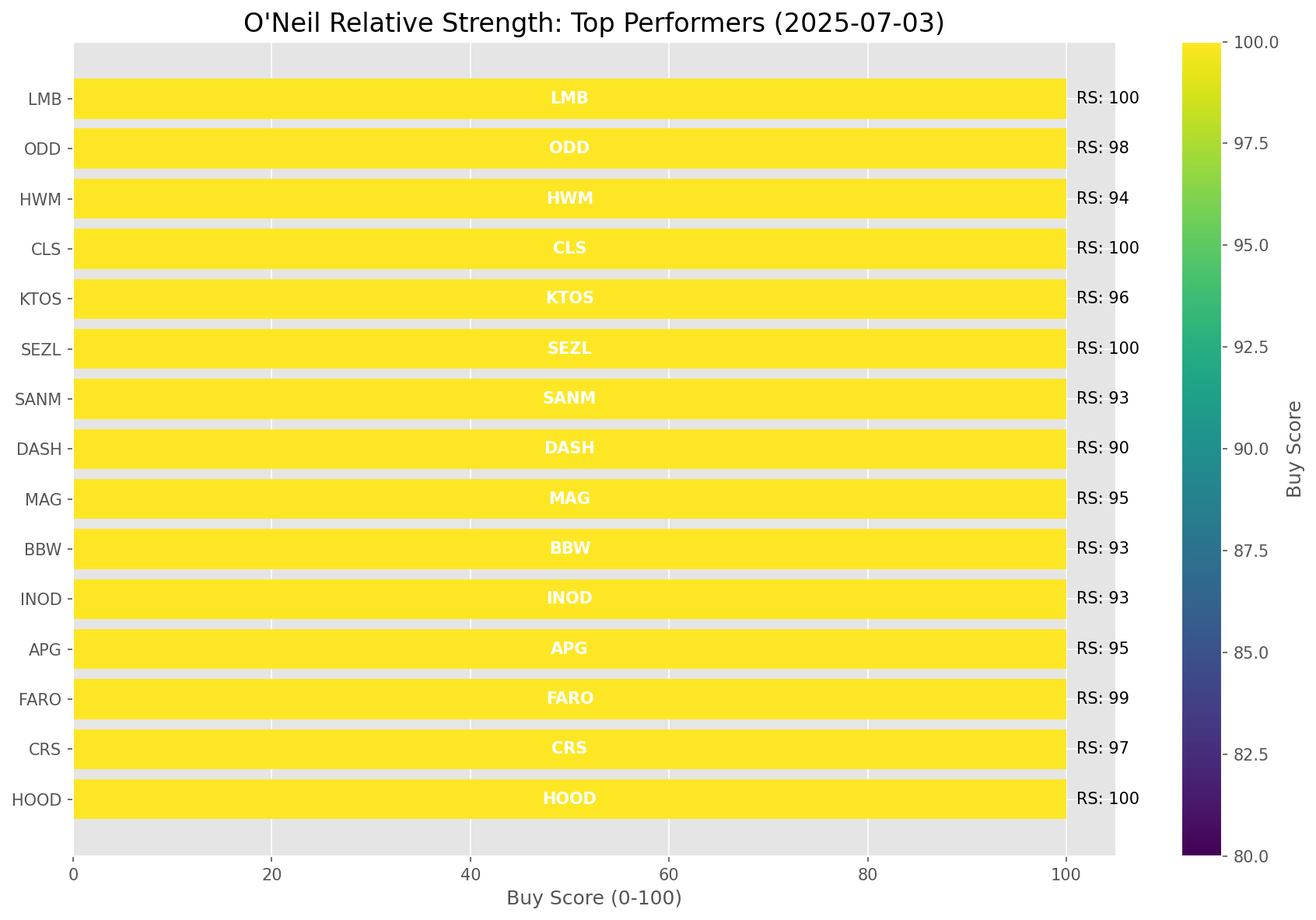
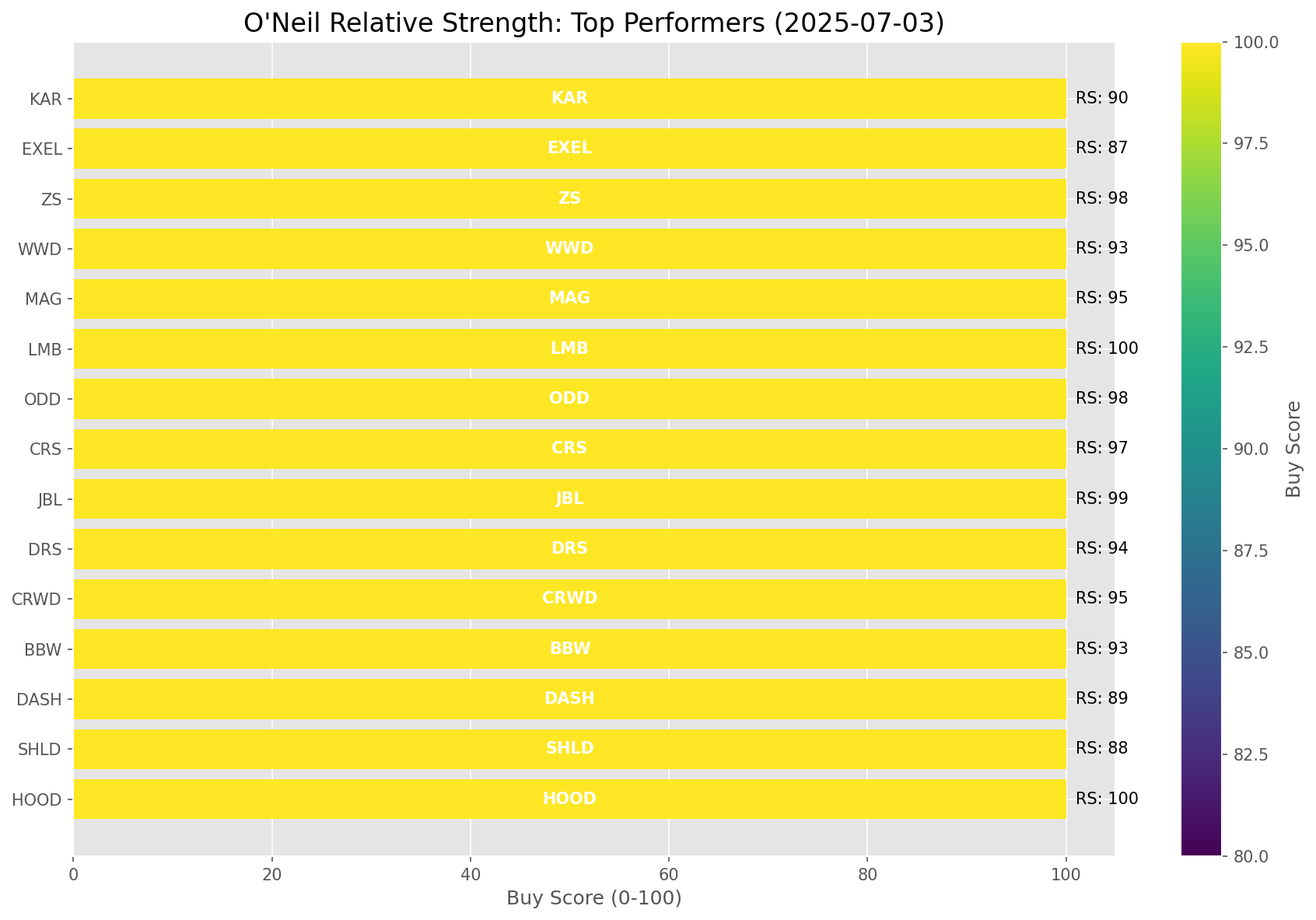
Add market report for 2025-07-03

diff --git a/oneil_relative_strength_report_2025-07-03.md b/oneil_relative_strength_report_2025-07-03.md
@@ -13,7 +13,7 @@
 | **Historical Mean** | 9.38 |
 | **Standard Deviation** | 0.48 |
 | **Z-Score (StdDev from Mean)** | 1.70 |
-| **Total Market Cap** | $308.14 trillion |
+| **Total Market Cap** | $308.03 trillion |
 | **GDP** | $29.96 trillion |
 
 ## **Market Insights**
@@ -49,41 +49,41 @@ Based on William O'Neil's Relative Strength Methodology
 
 | ETF | Strength | RS Rating | Performance | Above Key MAs | Trend | Sector |
 |-----|----------|-----------|-------------|--------------|-------|--------|
-| [ARKW](https://www.tradingview.com/chart/?symbol=ARKW) | 98.5 | 97.0 | 48.88% | 10d ✓, 50d ✓, 200d ✓ | ↗ | Next Generation Internet |
-| [BLOK](https://www.tradingview.com/chart/?symbol=BLOK) | 98.5 | 97.0 | 48.84% | 10d ✓, 50d ✓, 200d ✓ | ↗ | Blockchain & Cryptocurrency |
+| [BLOK](https://www.tradingview.com/chart/?symbol=BLOK) | 98.5 | 97.0 | 48.82% | 10d ✓, 50d ✓, 200d ✓ | ↗ | Blockchain & Cryptocurrency |
+| [ARKW](https://www.tradingview.com/chart/?symbol=ARKW) | 98.5 | 97.0 | 49.06% | 10d ✓, 50d ✓, 200d ✓ | ↗ | Next Generation Internet |
 | [ARKF](https://www.tradingview.com/chart/?symbol=ARKF) | 98.0 | 96.0 | 44.72% | 10d ✓, 50d ✓, 200d ✓ | ↗ | Fintech Innovation |
-| [ARKK](https://www.tradingview.com/chart/?symbol=ARKK) | 98.0 | 96.0 | 44.77% | 10d ✓, 50d ✓, 200d ✓ | ↗ | Innovation |
-| [XLK](https://www.tradingview.com/chart/?symbol=XLK) | 93.0 | 86.0 | 22.85% | 10d ✓, 50d ✓, 200d ✓ | ↗ | Technology |
-| [AIQ](https://www.tradingview.com/chart/?symbol=AIQ) | 91.0 | 82.0 | 19.07% | 10d ✓, 50d ✓, 200d ✓ | ↗ | Artificial Intelligence & Technology |
-| [CIBR](https://www.tradingview.com/chart/?symbol=CIBR) | 90.0 | 80.0 | 17.96% | 10d ✓, 50d ✓, 200d ✓ | ↗ | Cybersecurity |
-| [URA](https://www.tradingview.com/chart/?symbol=URA) | 89.6 | 99.0 | 63.01% | 10d ✗, 50d ✓, 200d ✓ | ↗ | Uranium |
-| [PAVE](https://www.tradingview.com/chart/?symbol=PAVE) | 88.5 | 77.0 | 15.96% | 10d ✓, 50d ✓, 200d ✓ | ↗ | Infrastructure |
-| [JETS](https://www.tradingview.com/chart/?symbol=JETS) | 87.5 | 75.0 | 14.97% | 10d ✓, 50d ✓, 200d ✓ | ↗ | Airlines |
-| [XLI](https://www.tradingview.com/chart/?symbol=XLI) | 85.0 | 70.0 | 12.25% | 10d ✓, 50d ✓, 200d ✓ | ↗ | Industrial |
-| [XLC](https://www.tradingview.com/chart/?symbol=XLC) | 84.0 | 68.0 | 11.64% | 10d ✓, 50d ✓, 200d ✓ | ↗ | Communications |
-| [XLY](https://www.tradingview.com/chart/?symbol=XLY) | 80.5 | 61.0 | 8.97% | 10d ✓, 50d ✓, 200d ✓ | ↗ | Consumer Discretionary |
-| [SLV](https://www.tradingview.com/chart/?symbol=SLV) | 80.0 | 60.0 | 8.66% | 10d ✓, 50d ✓, 200d ✓ | ↗ | Silver |
-| [IYZ](https://www.tradingview.com/chart/?symbol=IYZ) | 79.5 | 59.0 | 8.37% | 10d ✓, 50d ✓, 200d ✓ | ↗ | Telecommunications |
-| [XLF](https://www.tradingview.com/chart/?symbol=XLF) | 76.0 | 52.0 | 5.90% | 10d ✓, 50d ✓, 200d ✓ | ↗ | Financial |
-| [SOXX](https://www.tradingview.com/chart/?symbol=SOXX) | 75.5 | 91.0 | 28.59% | 10d ✓, 50d ✓, 200d ✓ | ↘ | Semiconductors |
-| [XLU](https://www.tradingview.com/chart/?symbol=XLU) | 72.5 | 45.0 | 3.08% | 10d ✓, 50d ✓, 200d ✓ | ↗ | Utilities |
-| [ARKG](https://www.tradingview.com/chart/?symbol=ARKG) | 72.0 | 84.0 | 21.30% | 10d ✓, 50d ✓, 200d ✓ | ↘ | Genomics |
-| [ICLN](https://www.tradingview.com/chart/?symbol=ICLN) | 71.0 | 82.0 | 19.78% | 10d ✓, 50d ✓, 200d ✓ | ↘ | Clean Energy |
-| [XLP](https://www.tradingview.com/chart/?symbol=XLP) | 69.0 | 38.0 | 0.62% | 10d ✓, 50d ✓, 200d ✓ | ↗ | Consumer Staples |
-| [GLD](https://www.tradingview.com/chart/?symbol=GLD) | 66.6 | 53.0 | 6.35% | 10d ✗, 50d ✓, 200d ✓ | ↗ | Gold |
-| [IYT](https://www.tradingview.com/chart/?symbol=IYT) | 60.0 | 60.0 | 8.77% | 10d ✓, 50d ✓, 200d ✓ | ↘ | Transportation |
-| [XLB](https://www.tradingview.com/chart/?symbol=XLB) | 55.0 | 50.0 | 5.02% | 10d ✓, 50d ✓, 200d ✓ | ↘ | Materials |
-| [DBC](https://www.tradingview.com/chart/?symbol=DBC) | 44.0 | 28.0 | -1.71% | 10d ✓, 50d ✓, 200d ✓ | ↘ | Commodities |
-| [IBB](https://www.tradingview.com/chart/?symbol=IBB) | 41.8 | 44.0 | 2.47% | 10d ✓, 50d ✓, 200d ✗ | ↘ | Biotechnology |
-| [KWEB](https://www.tradingview.com/chart/?symbol=KWEB) | 40.7 | 21.0 | -4.09% | 10d ✗, 50d ✗, 200d ✓ | ↗ | Chinese Internet |
-| [ITB](https://www.tradingview.com/chart/?symbol=ITB) | 36.3 | 33.0 | -0.22% | 10d ✓, 50d ✓, 200d ✗ | ↘ | Home Construction |
-| [IYR](https://www.tradingview.com/chart/?symbol=IYR) | 36.3 | 33.0 | -0.28% | 10d ✓, 50d ✓, 200d ✗ | ↘ | Real Estate |
-| [DBA](https://www.tradingview.com/chart/?symbol=DBA) | 31.5 | 23.0 | -3.68% | 10d ✗, 50d ✗, 200d ✗ | ↗ | Agriculture |
-| [XLV](https://www.tradingview.com/chart/?symbol=XLV) | 28.3 | 17.0 | -6.11% | 10d ✓, 50d ✓, 200d ✗ | ↘ | Healthcare |
-| [XLE](https://www.tradingview.com/chart/?symbol=XLE) | 26.8 | 14.0 | -7.65% | 10d ✓, 50d ✓, 200d ✗ | ↘ | Energy |
-| [TLT](https://www.tradingview.com/chart/?symbol=TLT) | 19.9 | 20.0 | -4.78% | 10d ✗, 50d ✓, 200d ✗ | ↘ | Long-term Treasuries |
-| [BIL](https://www.tradingview.com/chart/?symbol=BIL) | 17.0 | 34.0 | 0.05% | 10d ✗, 50d ✗, 200d ✗ | ↘ | Short-term Treasuries |
-| [UUP](https://www.tradingview.com/chart/?symbol=UUP) | 9.5 | 19.0 | -5.20% | 10d ✗, 50d ✗, 200d ✗ | ↘ | U.S. Dollar |
+| [ARKK](https://www.tradingview.com/chart/?symbol=ARKK) | 98.0 | 96.0 | 44.64% | 10d ✓, 50d ✓, 200d ✓ | ↗ | Innovation |
+| [XLK](https://www.tradingview.com/chart/?symbol=XLK) | 93.0 | 86.0 | 22.64% | 10d ✓, 50d ✓, 200d ✓ | ↗ | Technology |
+| [AIQ](https://www.tradingview.com/chart/?symbol=AIQ) | 90.5 | 81.0 | 18.95% | 10d ✓, 50d ✓, 200d ✓ | ↗ | Artificial Intelligence & Technology |
+| [CIBR](https://www.tradingview.com/chart/?symbol=CIBR) | 90.0 | 80.0 | 17.81% | 10d ✓, 50d ✓, 200d ✓ | ↗ | Cybersecurity |
+| [URA](https://www.tradingview.com/chart/?symbol=URA) | 89.6 | 99.0 | 63.57% | 10d ✗, 50d ✓, 200d ✓ | ↗ | Uranium |
+| [PAVE](https://www.tradingview.com/chart/?symbol=PAVE) | 88.0 | 76.0 | 15.97% | 10d ✓, 50d ✓, 200d ✓ | ↗ | Infrastructure |
+| [JETS](https://www.tradingview.com/chart/?symbol=JETS) | 87.5 | 75.0 | 15.19% | 10d ✓, 50d ✓, 200d ✓ | ↗ | Airlines |
+| [XLI](https://www.tradingview.com/chart/?symbol=XLI) | 85.0 | 70.0 | 12.30% | 10d ✓, 50d ✓, 200d ✓ | ↗ | Industrial |
+| [XLC](https://www.tradingview.com/chart/?symbol=XLC) | 84.0 | 68.0 | 11.55% | 10d ✓, 50d ✓, 200d ✓ | ↗ | Communications |
+| [SLV](https://www.tradingview.com/chart/?symbol=SLV) | 80.5 | 61.0 | 8.94% | 10d ✓, 50d ✓, 200d ✓ | ↗ | Silver |
+| [XLY](https://www.tradingview.com/chart/?symbol=XLY) | 80.0 | 60.0 | 8.80% | 10d ✓, 50d ✓, 200d ✓ | ↗ | Consumer Discretionary |
+| [IYZ](https://www.tradingview.com/chart/?symbol=IYZ) | 79.5 | 59.0 | 8.22% | 10d ✓, 50d ✓, 200d ✓ | ↗ | Telecommunications |
+| [GLD](https://www.tradingview.com/chart/?symbol=GLD) | 77.0 | 54.0 | 6.59% | 10d ✓, 50d ✓, 200d ✓ | ↗ | Gold |
+| [XLF](https://www.tradingview.com/chart/?symbol=XLF) | 76.5 | 53.0 | 6.04% | 10d ✓, 50d ✓, 200d ✓ | ↗ | Financial |
+| [SOXX](https://www.tradingview.com/chart/?symbol=SOXX) | 75.5 | 91.0 | 28.43% | 10d ✓, 50d ✓, 200d ✓ | ↘ | Semiconductors |
+| [ARKG](https://www.tradingview.com/chart/?symbol=ARKG) | 72.5 | 85.0 | 21.66% | 10d ✓, 50d ✓, 200d ✓ | ↘ | Genomics |
+| [XLU](https://www.tradingview.com/chart/?symbol=XLU) | 72.5 | 45.0 | 3.05% | 10d ✓, 50d ✓, 200d ✓ | ↗ | Utilities |
+| [ICLN](https://www.tradingview.com/chart/?symbol=ICLN) | 71.0 | 82.0 | 19.74% | 10d ✓, 50d ✓, 200d ✓ | ↘ | Clean Energy |
+| [XLP](https://www.tradingview.com/chart/?symbol=XLP) | 69.0 | 38.0 | 0.77% | 10d ✓, 50d ✓, 200d ✓ | ↗ | Consumer Staples |
+| [IYT](https://www.tradingview.com/chart/?symbol=IYT) | 60.0 | 60.0 | 8.74% | 10d ✓, 50d ✓, 200d ✓ | ↘ | Transportation |
+| [XLB](https://www.tradingview.com/chart/?symbol=XLB) | 55.0 | 50.0 | 5.01% | 10d ✓, 50d ✓, 200d ✓ | ↘ | Materials |
+| [DBC](https://www.tradingview.com/chart/?symbol=DBC) | 44.0 | 28.0 | -1.63% | 10d ✓, 50d ✓, 200d ✓ | ↘ | Commodities |
+| [IBB](https://www.tradingview.com/chart/?symbol=IBB) | 41.8 | 44.0 | 2.53% | 10d ✓, 50d ✓, 200d ✗ | ↘ | Biotechnology |
+| [KWEB](https://www.tradingview.com/chart/?symbol=KWEB) | 41.2 | 22.0 | -3.80% | 10d ✗, 50d ✗, 200d ✓ | ↗ | Chinese Internet |
+| [ITB](https://www.tradingview.com/chart/?symbol=ITB) | 36.3 | 33.0 | -0.26% | 10d ✓, 50d ✓, 200d ✗ | ↘ | Home Construction |
+| [IYR](https://www.tradingview.com/chart/?symbol=IYR) | 35.8 | 32.0 | -0.44% | 10d ✓, 50d ✓, 200d ✗ | ↘ | Real Estate |
+| [DBA](https://www.tradingview.com/chart/?symbol=DBA) | 31.0 | 22.0 | -3.86% | 10d ✗, 50d ✗, 200d ✗ | ↗ | Agriculture |
+| [XLV](https://www.tradingview.com/chart/?symbol=XLV) | 28.3 | 17.0 | -6.10% | 10d ✓, 50d ✓, 200d ✗ | ↘ | Healthcare |
+| [XLE](https://www.tradingview.com/chart/?symbol=XLE) | 27.3 | 15.0 | -7.54% | 10d ✓, 50d ✓, 200d ✗ | ↘ | Energy |
+| [TLT](https://www.tradingview.com/chart/?symbol=TLT) | 19.9 | 20.0 | -4.88% | 10d ✗, 50d ✓, 200d ✗ | ↘ | Long-term Treasuries |
+| [BIL](https://www.tradingview.com/chart/?symbol=BIL) | 17.5 | 35.0 | 0.07% | 10d ✗, 50d ✗, 200d ✗ | ↘ | Short-term Treasuries |
+| [UUP](https://www.tradingview.com/chart/?symbol=UUP) | 10.0 | 20.0 | -5.17% | 10d ✗, 50d ✗, 200d ✗ | ↘ | U.S. Dollar |
 
 ### **Sector ETF Performance Interpretation**
 
@@ -98,144 +98,146 @@ This table shows the relative strength metrics for different market sectors base
 
 ### **Current Sector Leadership**
 
-The current market leadership is coming from the following sectors: **Next Generation Internet, Blockchain & Cryptocurrency, Fintech Innovation**.
+The current market leadership is coming from the following sectors: **Blockchain & Cryptocurrency, Next Generation Internet, Fintech Innovation**.
 
-The **Next Generation Internet** sector (represented by **ARKW**) is showing particularly strong relative strength with an RS rating of 97.0 and performance of 48.88% vs. the S&P 500. This sector is trading above its 10-day, 50-day, 200-day moving average(s). Investors should consider focusing on high RS stocks within these leading sectors for potential outperformance.
+The **Blockchain & Cryptocurrency** sector (represented by **BLOK**) is showing particularly strong relative strength with an RS rating of 97.0 and performance of 48.82% vs. the S&P 500. This sector is trading above its 10-day, 50-day, 200-day moving average(s). Investors should consider focusing on high RS stocks within these leading sectors for potential outperformance.
 
 ---
 
 ## **Buy Recommendations**
 
-The following 73 stocks show exceptional relative strength:
+The following 76 stocks show exceptional relative strength:
 
 | RS Rating | Buy Score | Current Price | Chart | Name | Ticker |
 |-----------|-----------|---------------|-------|------|--------|
-| 100 | 100 | $94.12 | [Chart](https://www.tradingview.com/chart/?symbol=HOOD) | Robinhood Markets, Inc. Class A Common Stock | HOOD |
-| 100 | 100 | $179.83 | [Chart](https://www.tradingview.com/chart/?symbol=SEZL) | Sezzle Inc. Common Stock | SEZL |
-| 100 | 100 | $158.51 | [Chart](https://www.tradingview.com/chart/?symbol=CLS) | Celestica, Inc. | CLS |
-| 100 | 100 | $145.77 | [Chart](https://www.tradingview.com/chart/?symbol=LMB) | Limbach Holdings, Inc Common Stock | LMB |
-| 100 | 100 | $282.36 | [Chart](https://www.tradingview.com/chart/?symbol=DAVE) | Dave Inc. Class A Common Stock | DAVE |
-| 99 | 100 | $43.94 | [Chart](https://www.tradingview.com/chart/?symbol=FARO) | Faro Technologies Inc | FARO |
-| 99 | 100 | $226.64 | [Chart](https://www.tradingview.com/chart/?symbol=JBL) | Jabil Inc. | JBL |
-| 99 | 100 | $104.22 | [Chart](https://www.tradingview.com/chart/?symbol=RBLX) | Roblox Corporation | RBLX |
-| 99 | 100 | $191.00 | [Chart](https://www.tradingview.com/chart/?symbol=NET) | Cloudflare, Inc. Class A common stock, par value $0.001 per share | NET |
-| 98 | 100 | $75.73 | [Chart](https://www.tradingview.com/chart/?symbol=ODD) | ODDITY Tech Ltd. Class A Ordinary Shares | ODD |
-| 98 | 100 | $315.87 | [Chart](https://www.tradingview.com/chart/?symbol=ZS) | Zscaler, Inc. Common Stock | ZS |
-| 98 | 100 | $211.28 | [Chart](https://www.tradingview.com/chart/?symbol=AGX) | Argan, Inc | AGX |
-| 98 | 100 | $333.11 | [Chart](https://www.tradingview.com/chart/?symbol=RCL) | Royal Caribbean Group | RCL |
-| 98 | 100 | $516.88 | [Chart](https://www.tradingview.com/chart/?symbol=GEV) | GE Vernova Inc. | GEV |
-| 98 | 100 | $157.56 | [Chart](https://www.tradingview.com/chart/?symbol=NRG) | NRG Energy, Inc. | NRG |
-| 98 | 100 | $347.77 | [Chart](https://www.tradingview.com/chart/?symbol=CVNA) | Carvana Co. | CVNA |
-| 97 | 100 | $280.60 | [Chart](https://www.tradingview.com/chart/?symbol=CRS) | Carpenter Technology Corp | CRS |
-| 96 | 100 | $44.69 | [Chart](https://www.tradingview.com/chart/?symbol=KTOS) | Kratos Defense & Security Solutions, Inc. | KTOS |
+| 100 | 100 | $94.40 | [Chart](https://www.tradingview.com/chart/?symbol=HOOD) | Robinhood Markets, Inc. Class A Common Stock | HOOD |
+| 100 | 100 | $149.20 | [Chart](https://www.tradingview.com/chart/?symbol=LMB) | Limbach Holdings, Inc Common Stock | LMB |
+| 100 | 100 | $159.26 | [Chart](https://www.tradingview.com/chart/?symbol=CLS) | Celestica, Inc. | CLS |
+| 100 | 100 | $182.16 | [Chart](https://www.tradingview.com/chart/?symbol=SEZL) | Sezzle Inc. Common Stock | SEZL |
+| 100 | 100 | $281.79 | [Chart](https://www.tradingview.com/chart/?symbol=DAVE) | Dave Inc. Class A Common Stock | DAVE |
+| 99 | 100 | $226.01 | [Chart](https://www.tradingview.com/chart/?symbol=JBL) | Jabil Inc. | JBL |
+| 99 | 100 | $43.92 | [Chart](https://www.tradingview.com/chart/?symbol=FARO) | Faro Technologies Inc | FARO |
+| 99 | 100 | $103.59 | [Chart](https://www.tradingview.com/chart/?symbol=RBLX) | Roblox Corporation | RBLX |
+| 99 | 100 | $191.27 | [Chart](https://www.tradingview.com/chart/?symbol=NET) | Cloudflare, Inc. Class A common stock, par value $0.001 per share | NET |
+| 98 | 100 | $75.96 | [Chart](https://www.tradingview.com/chart/?symbol=ODD) | ODDITY Tech Ltd. Class A Ordinary Shares | ODD |
+| 98 | 100 | $314.77 | [Chart](https://www.tradingview.com/chart/?symbol=ZS) | Zscaler, Inc. Common Stock | ZS |
+| 98 | 100 | $334.48 | [Chart](https://www.tradingview.com/chart/?symbol=RCL) | Royal Caribbean Group | RCL |
+| 98 | 100 | $348.33 | [Chart](https://www.tradingview.com/chart/?symbol=CVNA) | Carvana Co. | CVNA |
+| 98 | 100 | $517.04 | [Chart](https://www.tradingview.com/chart/?symbol=GEV) | GE Vernova Inc. | GEV |
+| 98 | 100 | $158.39 | [Chart](https://www.tradingview.com/chart/?symbol=NRG) | NRG Energy, Inc. | NRG |
+| 97 | 100 | $279.58 | [Chart](https://www.tradingview.com/chart/?symbol=CRS) | Carpenter Technology Corp | CRS |
+| 96 | 100 | $89.08 | [Chart](https://www.tradingview.com/chart/?symbol=RBRK) | Rubrik, Inc. | RBRK |
+| 96 | 100 | $44.66 | [Chart](https://www.tradingview.com/chart/?symbol=KTOS) | Kratos Defense & Security Solutions, Inc. | KTOS |
 | 96 | 100 | $50.16 | [Chart](https://www.tradingview.com/chart/?symbol=ARKF) | ARK Fintech Innovation ETF | ARKF |
-| 96 | 100 | $89.12 | [Chart](https://www.tradingview.com/chart/?symbol=RBRK) | Rubrik, Inc. | RBRK |
-| 96 | 100 | $795.58 | [Chart](https://www.tradingview.com/chart/?symbol=AXON) | Axon Enterprise, Inc. Common Stock | AXON |
-| 95 | 100 | $34.34 | [Chart](https://www.tradingview.com/chart/?symbol=APG) | APi Group Corporation | APG |
-| 95 | 100 | $21.50 | [Chart](https://www.tradingview.com/chart/?symbol=MAG) | MAG Silver Corp. | MAG |
-| 95 | 100 | $514.08 | [Chart](https://www.tradingview.com/chart/?symbol=CRWD) | CrowdStrike Holdings, Inc. Class A Common Stock | CRWD |
-| 95 | 100 | $1301.00 | [Chart](https://www.tradingview.com/chart/?symbol=NFLX) | NetFlix Inc | NFLX |
-| 94 | 100 | $180.27 | [Chart](https://www.tradingview.com/chart/?symbol=HWM) | Howmet Aerospace Inc. | HWM |
+| 96 | 100 | $795.48 | [Chart](https://www.tradingview.com/chart/?symbol=AXON) | Axon Enterprise, Inc. Common Stock | AXON |
+| 95 | 100 | $514.10 | [Chart](https://www.tradingview.com/chart/?symbol=CRWD) | CrowdStrike Holdings, Inc. Class A Common Stock | CRWD |
+| 95 | 100 | $21.63 | [Chart](https://www.tradingview.com/chart/?symbol=MAG) | MAG Silver Corp. | MAG |
+| 95 | 100 | $34.33 | [Chart](https://www.tradingview.com/chart/?symbol=APG) | APi Group Corporation | APG |
+| 95 | 100 | $1297.18 | [Chart](https://www.tradingview.com/chart/?symbol=NFLX) | NetFlix Inc | NFLX |
 | 94 | 100 | $46.41 | [Chart](https://www.tradingview.com/chart/?symbol=DRS) | Leonardo DRS, Inc. Common Stock | DRS |
-| 94 | 100 | $38.74 | [Chart](https://www.tradingview.com/chart/?symbol=AS) | Amer Sports, Inc. | AS |
-| 93 | 100 | $50.71 | [Chart](https://www.tradingview.com/chart/?symbol=INOD) | Innodata Inc. | INOD |
+| 94 | 100 | $181.06 | [Chart](https://www.tradingview.com/chart/?symbol=HWM) | Howmet Aerospace Inc. | HWM |
+| 94 | 100 | $38.87 | [Chart](https://www.tradingview.com/chart/?symbol=AS) | Amer Sports, Inc. | AS |
 | 93 | 100 | $52.89 | [Chart](https://www.tradingview.com/chart/?symbol=BBW) | Build-A-Bear Workshop, Inc. | BBW |
-| 93 | 100 | $101.24 | [Chart](https://www.tradingview.com/chart/?symbol=SANM) | Sanmina  Corp | SANM |
-| 93 | 100 | $252.35 | [Chart](https://www.tradingview.com/chart/?symbol=WWD) | Woodward, Inc. | WWD |
-| 93 | 100 | $57.86 | [Chart](https://www.tradingview.com/chart/?symbol=IBKR) | Interactive Brokers Group, Inc. Class A Common Stock | IBKR |
-| 92 | 100 | $73.42 | [Chart](https://www.tradingview.com/chart/?symbol=URBN) | Urban Outfitters Inc | URBN |
-| 92 | 100 | $17.84 | [Chart](https://www.tradingview.com/chart/?symbol=DAN) | Dana Incorporated | DAN |
-| 92 | 100 | $43.50 | [Chart](https://www.tradingview.com/chart/?symbol=KD) | Kyndryl Holdings, Inc. | KD |
-| 91 | 100 | $403.33 | [Chart](https://www.tradingview.com/chart/?symbol=MSTR) | MicroStrategy Inc | MSTR |
-| 90 | 100 | $240.50 | [Chart](https://www.tradingview.com/chart/?symbol=DASH) | DoorDash, Inc. Class A Common Stock | DASH |
-| 90 | 100 | $65.72 | [Chart](https://www.tradingview.com/chart/?symbol=CAKE) | Cheesecake Factory (The) | CAKE |
-| 90 | 100 | $25.68 | [Chart](https://www.tradingview.com/chart/?symbol=KAR) | OPENLANE, Inc | KAR |
+| 93 | 100 | $252.34 | [Chart](https://www.tradingview.com/chart/?symbol=WWD) | Woodward, Inc. | WWD |
+| 93 | 100 | $57.98 | [Chart](https://www.tradingview.com/chart/?symbol=IBKR) | Interactive Brokers Group, Inc. Class A Common Stock | IBKR |
+| 93 | 100 | $73.57 | [Chart](https://www.tradingview.com/chart/?symbol=URBN) | Urban Outfitters Inc | URBN |
+| 92 | 100 | $102.34 | [Chart](https://www.tradingview.com/chart/?symbol=SANM) | Sanmina  Corp | SANM |
+| 92 | 100 | $50.13 | [Chart](https://www.tradingview.com/chart/?symbol=INOD) | Innodata Inc. | INOD |
+| 92 | 100 | $43.41 | [Chart](https://www.tradingview.com/chart/?symbol=KD) | Kyndryl Holdings, Inc. | KD |
+| 91 | 100 | $17.82 | [Chart](https://www.tradingview.com/chart/?symbol=DAN) | Dana Incorporated | DAN |
+| 91 | 100 | $106.71 | [Chart](https://www.tradingview.com/chart/?symbol=JCI) | Johnson Controls International plc | JCI |
+| 91 | 100 | $403.99 | [Chart](https://www.tradingview.com/chart/?symbol=MSTR) | MicroStrategy Inc | MSTR |
+| 90 | 100 | $25.80 | [Chart](https://www.tradingview.com/chart/?symbol=KAR) | OPENLANE, Inc | KAR |
+| 90 | 100 | $43.99 | [Chart](https://www.tradingview.com/chart/?symbol=BBIO) | BridgeBio Pharma, Inc. Common Stock | BBIO |
+| 90 | 100 | $28.23 | [Chart](https://www.tradingview.com/chart/?symbol=SRAD) | Sportradar Group AG Class A Ordinary Shares | SRAD |
+| 90 | 100 | $65.70 | [Chart](https://www.tradingview.com/chart/?symbol=CAKE) | Cheesecake Factory (The) | CAKE |
+| 89 | 100 | $238.79 | [Chart](https://www.tradingview.com/chart/?symbol=DASH) | DoorDash, Inc. Class A Common Stock | DASH |
 | 89 | 100 | $30.93 | [Chart](https://www.tradingview.com/chart/?symbol=HODL) | VanEck Bitcoin ETF | HODL |
-| 89 | 100 | $28.04 | [Chart](https://www.tradingview.com/chart/?symbol=SRAD) | Sportradar Group AG Class A Ordinary Shares | SRAD |
-| 89 | 100 | $43.81 | [Chart](https://www.tradingview.com/chart/?symbol=BBIO) | BridgeBio Pharma, Inc. Common Stock | BBIO |
-| 88 | 100 | $46.40 | [Chart](https://www.tradingview.com/chart/?symbol=EXEL) | Exelixis Inc | EXEL |
-| 88 | 100 | $59.16 | [Chart](https://www.tradingview.com/chart/?symbol=SHLD) | Global X Defense Tech ETF | SHLD |
-| 90 | 99 | $66.00 | [Chart](https://www.tradingview.com/chart/?symbol=RYTM) | Rhythm Pharmaceuticals, Inc. Common Stock | RYTM |
-| 89 | 99 | $62.13 | [Chart](https://www.tradingview.com/chart/?symbol=IBIT) | iShares Bitcoin Trust ETF | IBIT |
-| 88 | 99 | $284.18 | [Chart](https://www.tradingview.com/chart/?symbol=VEEV) | Veeva Systems Inc. | VEEV |
-| 86 | 99 | $21.22 | [Chart](https://www.tradingview.com/chart/?symbol=KT) | KT Corp. | KT |
-| 84 | 98 | $92.71 | [Chart](https://www.tradingview.com/chart/?symbol=SNEX) | StoneX Group Inc. Common Stock | SNEX |
-| 87 | 96 | $48.74 | [Chart](https://www.tradingview.com/chart/?symbol=SIL) | Global X Silver Miners ETF (NEW) | SIL |
-| 87 | 96 | $46.45 | [Chart](https://www.tradingview.com/chart/?symbol=AU) | AngloGold Ashanti plc | AU |
-| 85 | 96 | $5701.76 | [Chart](https://www.tradingview.com/chart/?symbol=BKNG) | Booking Holdings Inc. Common Stock | BKNG |
-| 84 | 96 | $90.53 | [Chart](https://www.tradingview.com/chart/?symbol=TPR) | Tapestry, Inc. Common Stock | TPR |
-| 83 | 96 | $29.67 | [Chart](https://www.tradingview.com/chart/?symbol=CAE) | CAE INC | CAE |
-| 83 | 96 | $29.20 | [Chart](https://www.tradingview.com/chart/?symbol=DB) | Deutsche Bank Aktiengesellschaft | DB |
-| 83 | 96 | $37.11 | [Chart](https://www.tradingview.com/chart/?symbol=AHR) | American Healthcare REIT, Inc. | AHR |
+| 88 | 100 | $59.10 | [Chart](https://www.tradingview.com/chart/?symbol=SHLD) | Global X Defense Tech ETF | SHLD |
+| 87 | 100 | $46.15 | [Chart](https://www.tradingview.com/chart/?symbol=EXEL) | Exelixis Inc | EXEL |
+| 89 | 99 | $62.19 | [Chart](https://www.tradingview.com/chart/?symbol=IBIT) | iShares Bitcoin Trust ETF | IBIT |
+| 88 | 99 | $132.85 | [Chart](https://www.tradingview.com/chart/?symbol=NTES) | NetEase, inc. | NTES |
+| 88 | 99 | $284.29 | [Chart](https://www.tradingview.com/chart/?symbol=VEEV) | Veeva Systems Inc. | VEEV |
+| 89 | 98 | $65.77 | [Chart](https://www.tradingview.com/chart/?symbol=RYTM) | Rhythm Pharmaceuticals, Inc. Common Stock | RYTM |
+| 85 | 98 | $21.20 | [Chart](https://www.tradingview.com/chart/?symbol=KT) | KT Corp. | KT |
+| 88 | 97 | $49.09 | [Chart](https://www.tradingview.com/chart/?symbol=SIL) | Global X Silver Miners ETF (NEW) | SIL |
+| 87 | 97 | $24.17 | [Chart](https://www.tradingview.com/chart/?symbol=TFPM) | Triple Flag Precious Metals Corp. | TFPM |
+| 87 | 96 | $46.71 | [Chart](https://www.tradingview.com/chart/?symbol=AU) | AngloGold Ashanti plc | AU |
+| 85 | 96 | $5716.80 | [Chart](https://www.tradingview.com/chart/?symbol=BKNG) | Booking Holdings Inc. Common Stock | BKNG |
+| 84 | 96 | $90.20 | [Chart](https://www.tradingview.com/chart/?symbol=TPR) | Tapestry, Inc. Common Stock | TPR |
+| 83 | 96 | $29.25 | [Chart](https://www.tradingview.com/chart/?symbol=DB) | Deutsche Bank Aktiengesellschaft | DB |
+| 83 | 96 | $29.65 | [Chart](https://www.tradingview.com/chart/?symbol=CAE) | CAE INC | CAE |
+| 83 | 96 | $37.07 | [Chart](https://www.tradingview.com/chart/?symbol=AHR) | American Healthcare REIT, Inc. | AHR |
 | 85 | 95 | $252.69 | [Chart](https://www.tradingview.com/chart/?symbol=WTS) | Watts Water Technologies, Inc. Class A | WTS |
-| 84 | 95 | $220.96 | [Chart](https://www.tradingview.com/chart/?symbol=COF) | Capital One Financial | COF |
-| 84 | 95 | $187.06 | [Chart](https://www.tradingview.com/chart/?symbol=ITA) | iShares U.S. Aerospace & Defense ETF | ITA |
-| 83 | 95 | $48.39 | [Chart](https://www.tradingview.com/chart/?symbol=BTI) | British American Tobacco p.l.c. American Depositary Shares, American Depositary Shares, each representing one Ordinary Share | BTI |
-| 83 | 94 | $295.47 | [Chart](https://www.tradingview.com/chart/?symbol=JPM) | JPMorgan Chase & Co. | JPM |
-| 83 | 94 | $77.07 | [Chart](https://www.tradingview.com/chart/?symbol=CTVA) | Corteva, Inc. Common Stock | CTVA |
-| 83 | 93 | $120.57 | [Chart](https://www.tradingview.com/chart/?symbol=TWLO) | Twilio Inc. | TWLO |
-| 83 | 93 | $60.01 | [Chart](https://www.tradingview.com/chart/?symbol=NTR) | Nutrien Ltd. Common Shares | NTR |
-| 83 | 93 | $93.08 | [Chart](https://www.tradingview.com/chart/?symbol=SEIC) | SEI Investments Co | SEIC |
-| 80 | 93 | $183.03 | [Chart](https://www.tradingview.com/chart/?symbol=EAT) | Brinker International, Inc. | EAT |
-| 82 | 92 | $269.48 | [Chart](https://www.tradingview.com/chart/?symbol=FDN) | First Trust Dow Jones Internet Index Fund ETF | FDN |
-| 82 | 92 | $112.59 | [Chart](https://www.tradingview.com/chart/?symbol=SPMO) | Invesco S&P 500 Momentum ETF | SPMO |
-| 80 | 92 | $76.02 | [Chart](https://www.tradingview.com/chart/?symbol=CIBR) | First Trust Exchange-Traded Fund II First Trust NASDAQ Cybersecurity ETF | CIBR |
-| 81 | 91 | $141.74 | [Chart](https://www.tradingview.com/chart/?symbol=PPA) | Invesco Aerospace & Defense ETF | PPA |
-| 80 | 91 | $227.91 | [Chart](https://www.tradingview.com/chart/?symbol=BAP) | Credicorp LTD | BAP |
-| 80 | 89 | $121.99 | [Chart](https://www.tradingview.com/chart/?symbol=FUTU) | Futu Holdings Limited American Depositary Shares | FUTU |
+| 84 | 95 | $220.91 | [Chart](https://www.tradingview.com/chart/?symbol=COF) | Capital One Financial | COF |
+| 84 | 95 | $186.86 | [Chart](https://www.tradingview.com/chart/?symbol=ITA) | iShares U.S. Aerospace & Defense ETF | ITA |
+| 84 | 95 | $77.12 | [Chart](https://www.tradingview.com/chart/?symbol=CTVA) | Corteva, Inc. Common Stock | CTVA |
+| 83 | 95 | $48.38 | [Chart](https://www.tradingview.com/chart/?symbol=BTI) | British American Tobacco p.l.c. American Depositary Shares, American Depositary Shares, each representing one Ordinary Share | BTI |
+| 81 | 95 | $93.81 | [Chart](https://www.tradingview.com/chart/?symbol=SNEX) | StoneX Group Inc. Common Stock | SNEX |
+| 83 | 94 | $296.00 | [Chart](https://www.tradingview.com/chart/?symbol=JPM) | JPMorgan Chase & Co. | JPM |
+| 81 | 94 | $164.93 | [Chart](https://www.tradingview.com/chart/?symbol=CAH) | Cardinal Health, Inc. | CAH |
+| 83 | 93 | $120.27 | [Chart](https://www.tradingview.com/chart/?symbol=TWLO) | Twilio Inc. | TWLO |
+| 83 | 93 | $93.10 | [Chart](https://www.tradingview.com/chart/?symbol=SEIC) | SEI Investments Co | SEIC |
+| 83 | 93 | $60.14 | [Chart](https://www.tradingview.com/chart/?symbol=NTR) | Nutrien Ltd. Common Shares | NTR |
+| 80 | 93 | $182.77 | [Chart](https://www.tradingview.com/chart/?symbol=EAT) | Brinker International, Inc. | EAT |
+| 82 | 92 | $112.51 | [Chart](https://www.tradingview.com/chart/?symbol=SPMO) | Invesco S&P 500 Momentum ETF | SPMO |
+| 80 | 92 | $75.93 | [Chart](https://www.tradingview.com/chart/?symbol=CIBR) | First Trust Exchange-Traded Fund II First Trust NASDAQ Cybersecurity ETF | CIBR |
+| 81 | 91 | $141.76 | [Chart](https://www.tradingview.com/chart/?symbol=PPA) | Invesco Aerospace & Defense ETF | PPA |
+| 81 | 91 | $269.02 | [Chart](https://www.tradingview.com/chart/?symbol=FDN) | First Trust Dow Jones Internet Index Fund ETF | FDN |
+| 80 | 91 | $227.25 | [Chart](https://www.tradingview.com/chart/?symbol=BAP) | Credicorp LTD | BAP |
+| 80 | 90 | $29.41 | [Chart](https://www.tradingview.com/chart/?symbol=NTGR) | NETGEAR, Inc. | NTGR |
 
 ---
 
 
 ## **Sell Recommendations**
 
-The following 44 stocks show deteriorating relative strength:
+The following 43 stocks show deteriorating relative strength:
 
 | RS Rating | Sell Score | Current Price | Chart | Name | Ticker |
 |-----------|------------|---------------|-------|------|--------|
+| 1 | 100 | $24.93 | [Chart](https://www.tradingview.com/chart/?symbol=QID) | ProShares UltraShort QQQ | QID |
+| 1 | 100 | $14.25 | [Chart](https://www.tradingview.com/chart/?symbol=NVDS) | Investment Managers Series Trust II Tradr 1.5X Short NVDA Daily ETF | NVDS |
 | 1 | 100 | $10.09 | [Chart](https://www.tradingview.com/chart/?symbol=HIBS) | Direxion Daily S&P 500 High Beta Bear 3X Shares | HIBS |
-| 1 | 100 | $25.44 | [Chart](https://www.tradingview.com/chart/?symbol=TECS) | Direxion Daily Technology Bear 3x Shares | TECS |
-| 1 | 100 | $14.19 | [Chart](https://www.tradingview.com/chart/?symbol=NVDS) | Investment Managers Series Trust II Tradr 1.5X Short NVDA Daily ETF | NVDS |
-| 2 | 100 | $24.89 | [Chart](https://www.tradingview.com/chart/?symbol=QID) | ProShares UltraShort QQQ | QID |
-| 2 | 100 | $11.98 | [Chart](https://www.tradingview.com/chart/?symbol=LBRT) | Liberty Energy Inc. | LBRT |
-| 2 | 100 | $25.03 | [Chart](https://www.tradingview.com/chart/?symbol=CRTO) | Criteo S.A. | CRTO |
-| 2 | 100 | $43.54 | [Chart](https://www.tradingview.com/chart/?symbol=LINE) | Lineage, Inc. Common Stock | LINE |
+| 1 | 100 | $25.61 | [Chart](https://www.tradingview.com/chart/?symbol=TECS) | Direxion Daily Technology Bear 3x Shares | TECS |
+| 2 | 100 | $10.20 | [Chart](https://www.tradingview.com/chart/?symbol=HPK) | HighPeak Energy, Inc. Common Stock | HPK |
+| 2 | 100 | $43.53 | [Chart](https://www.tradingview.com/chart/?symbol=LINE) | Lineage, Inc. Common Stock | LINE |
+| 2 | 100 | $12.08 | [Chart](https://www.tradingview.com/chart/?symbol=LBRT) | Liberty Energy Inc. | LBRT |
+| 2 | 100 | $24.92 | [Chart](https://www.tradingview.com/chart/?symbol=CRTO) | Criteo S.A. | CRTO |
 | 3 | 100 | $19.33 | [Chart](https://www.tradingview.com/chart/?symbol=BITI) | ProShares Short Bitcoin ETF | BITI |
-| 3 | 100 | $16.27 | [Chart](https://www.tradingview.com/chart/?symbol=SDS) | ProShares UltraShort S&P500 | SDS |
-| 3 | 100 | $39.49 | [Chart](https://www.tradingview.com/chart/?symbol=SDOW) | ProShares UltraPro Short Dow 30 | SDOW |
-| 5 | 100 | $80.22 | [Chart](https://www.tradingview.com/chart/?symbol=LNTH) | Lantheus Holdings, Inc | LNTH |
-| 6 | 100 | $33.38 | [Chart](https://www.tradingview.com/chart/?symbol=PSQ) | ProShares Short QQQ | PSQ |
-| 6 | 100 | $10.22 | [Chart](https://www.tradingview.com/chart/?symbol=LBTYK) | Liberty Global Ltd. Class C Common Shares | LBTYK |
-| 7 | 100 | $23.45 | [Chart](https://www.tradingview.com/chart/?symbol=DXD) | ProShares UltraShort Dow 30 | DXD |
-| 7 | 100 | $25.14 | [Chart](https://www.tradingview.com/chart/?symbol=ZSL) | ProShares UltraShort Silver | ZSL |
-| 9 | 100 | $35.56 | [Chart](https://www.tradingview.com/chart/?symbol=SARK) | Investment Managers Series Trust II Tradr 1X Short Innovation Daily ETF | SARK |
-| 13 | 100 | $14.04 | [Chart](https://www.tradingview.com/chart/?symbol=OCSL) | Oaktree Specialty Lending Corporation | OCSL |
-| 10 | 99 | $39.23 | [Chart](https://www.tradingview.com/chart/?symbol=SH) | ProShares Short S&P500 | SH |
-| 8 | 98 | $103.20 | [Chart](https://www.tradingview.com/chart/?symbol=PDD) | PDD Holdings Inc. American Depositary Shares | PDD |
-| 15 | 98 | $85.06 | [Chart](https://www.tradingview.com/chart/?symbol=SIGI) | Selective Insurance Group | SIGI |
-| 4 | 97 | $81.91 | [Chart](https://www.tradingview.com/chart/?symbol=OKE) | Oneok, Inc. | OKE |
+| 3 | 100 | $39.52 | [Chart](https://www.tradingview.com/chart/?symbol=SDOW) | ProShares UltraPro Short Dow 30 | SDOW |
+| 4 | 100 | $35.25 | [Chart](https://www.tradingview.com/chart/?symbol=SARK) | Investment Managers Series Trust II Tradr 1X Short Innovation Daily ETF | SARK |
+| 5 | 100 | $24.78 | [Chart](https://www.tradingview.com/chart/?symbol=ZSL) | ProShares UltraShort Silver | ZSL |
+| 5 | 100 | $33.41 | [Chart](https://www.tradingview.com/chart/?symbol=PSQ) | ProShares Short QQQ | PSQ |
+| 5 | 100 | $80.42 | [Chart](https://www.tradingview.com/chart/?symbol=LNTH) | Lantheus Holdings, Inc | LNTH |
+| 6 | 100 | $10.21 | [Chart](https://www.tradingview.com/chart/?symbol=LBTYK) | Liberty Global Ltd. Class C Common Shares | LBTYK |
+| 7 | 100 | $23.48 | [Chart](https://www.tradingview.com/chart/?symbol=DXD) | ProShares UltraShort Dow 30 | DXD |
+| 13 | 100 | $14.07 | [Chart](https://www.tradingview.com/chart/?symbol=OCSL) | Oaktree Specialty Lending Corporation | OCSL |
+| 3 | 99 | $16.29 | [Chart](https://www.tradingview.com/chart/?symbol=SDS) | ProShares UltraShort S&P500 | SDS |
+| 10 | 99 | $39.25 | [Chart](https://www.tradingview.com/chart/?symbol=SH) | ProShares Short S&P500 | SH |
+| 11 | 99 | $84.64 | [Chart](https://www.tradingview.com/chart/?symbol=KSPI) | Joint Stock Company Kaspi.kz American Depository Shares | KSPI |
+| 8 | 98 | $103.59 | [Chart](https://www.tradingview.com/chart/?symbol=PDD) | PDD Holdings Inc. American Depositary Shares | PDD |
+| 4 | 96 | $82.14 | [Chart](https://www.tradingview.com/chart/?symbol=OKE) | Oneok, Inc. | OKE |
+| 17 | 96 | $86.33 | [Chart](https://www.tradingview.com/chart/?symbol=SIGI) | Selective Insurance Group | SIGI |
 | 6 | 95 | $24.77 | [Chart](https://www.tradingview.com/chart/?symbol=DRV) | Direxion Daily Real Estate Bear 3X Shares | DRV |
-| 11 | 94 | $54.32 | [Chart](https://www.tradingview.com/chart/?symbol=CNMD) | CONMED Corporation | CNMD |
-| 15 | 94 | $132.15 | [Chart](https://www.tradingview.com/chart/?symbol=KMB) | Kimberly-Clark Corp. | KMB |
-| 17 | 93 | $86.13 | [Chart](https://www.tradingview.com/chart/?symbol=BIDU) | Baidu, Inc. | BIDU |
-| 11 | 92 | $48.46 | [Chart](https://www.tradingview.com/chart/?symbol=SNY) | Sanofi American Depositary Shares (Each representing one-half of one ordinary share) | SNY |
-| 16 | 92 | $25.08 | [Chart](https://www.tradingview.com/chart/?symbol=DOG) | ProShares Short Dow30 | DOG |
-| 11 | 90 | $40.93 | [Chart](https://www.tradingview.com/chart/?symbol=UDR) | UDR, Inc. | UDR |
-| 13 | 90 | $30.81 | [Chart](https://www.tradingview.com/chart/?symbol=AXTA) | Axalta Coating Systems Ltd. | AXTA |
-| 20 | 90 | $777.07 | [Chart](https://www.tradingview.com/chart/?symbol=LLY) | Eli Lilly & Co. | LLY |
-| 17 | 89 | $62.38 | [Chart](https://www.tradingview.com/chart/?symbol=ELS) | Equity Lifestyle Properties, Inc. | ELS |
-| 17 | 89 | $293.65 | [Chart](https://www.tradingview.com/chart/?symbol=UTHR) | United Therapeutics Corp | UTHR |
-| 24 | 87 | $28.89 | [Chart](https://www.tradingview.com/chart/?symbol=RNA) | Avidity Biosciences, Inc. Common Stock | RNA |
-| 27 | 87 | $18.49 | [Chart](https://www.tradingview.com/chart/?symbol=S) | SentinelOne, Inc. | S |
-| 19 | 86 | $19.16 | [Chart](https://www.tradingview.com/chart/?symbol=MSDL) | Morgan Stanley Direct Lending Fund | MSDL |
-| 23 | 83 | $305.10 | [Chart](https://www.tradingview.com/chart/?symbol=ACN) | Accenture PLC | ACN |
-| 19 | 82 | $35.32 | [Chart](https://www.tradingview.com/chart/?symbol=PECO) | Phillips Edison & Company, Inc. Common Stock | PECO |
-| 22 | 82 | $56.92 | [Chart](https://www.tradingview.com/chart/?symbol=DAY) | Dayforce, Inc. | DAY |
-| 29 | 80 | $196.09 | [Chart](https://www.tradingview.com/chart/?symbol=RGA) | Reinsurance Group of America, Incorporated | RGA |
-| 28 | 79 | $104.75 | [Chart](https://www.tradingview.com/chart/?symbol=DEO) | Diageo plc | DEO |
-| 29 | 76 | $126.96 | [Chart](https://www.tradingview.com/chart/?symbol=RGEN) | Repligen Corp | RGEN |
-| 33 | 75 | $22.83 | [Chart](https://www.tradingview.com/chart/?symbol=IBTG) | iShares iBonds Dec 2026 Term Treasury ETF | IBTG |
-| 30 | 74 | $21.72 | [Chart](https://www.tradingview.com/chart/?symbol=TUA) | Simplify Short Term Treasury Futures Strategy ETF | TUA |
+| 15 | 93 | $132.12 | [Chart](https://www.tradingview.com/chart/?symbol=KMB) | Kimberly-Clark Corp. | KMB |
+| 10 | 92 | $48.30 | [Chart](https://www.tradingview.com/chart/?symbol=SNY) | Sanofi American Depositary Shares (Each representing one-half of one ordinary share) | SNY |
+| 16 | 92 | $25.09 | [Chart](https://www.tradingview.com/chart/?symbol=DOG) | ProShares Short Dow30 | DOG |
+| 17 | 92 | $86.35 | [Chart](https://www.tradingview.com/chart/?symbol=BIDU) | Baidu, Inc. | BIDU |
+| 16 | 89 | $62.12 | [Chart](https://www.tradingview.com/chart/?symbol=ELS) | Equity Lifestyle Properties, Inc. | ELS |
+| 21 | 89 | $780.67 | [Chart](https://www.tradingview.com/chart/?symbol=LLY) | Eli Lilly & Co. | LLY |
+| 26 | 88 | $18.45 | [Chart](https://www.tradingview.com/chart/?symbol=S) | SentinelOne, Inc. | S |
+| 18 | 86 | $294.49 | [Chart](https://www.tradingview.com/chart/?symbol=UTHR) | United Therapeutics Corp | UTHR |
+| 19 | 86 | $45.81 | [Chart](https://www.tradingview.com/chart/?symbol=CWT) | California Water Service | CWT |
+| 19 | 85 | $19.17 | [Chart](https://www.tradingview.com/chart/?symbol=MSDL) | Morgan Stanley Direct Lending Fund | MSDL |
+| 27 | 84 | $29.17 | [Chart](https://www.tradingview.com/chart/?symbol=RNA) | Avidity Biosciences, Inc. Common Stock | RNA |
+| 23 | 82 | $304.78 | [Chart](https://www.tradingview.com/chart/?symbol=ACN) | Accenture PLC | ACN |
+| 25 | 82 | $127.47 | [Chart](https://www.tradingview.com/chart/?symbol=RGEN) | Repligen Corp | RGEN |
+| 24 | 81 | $36.37 | [Chart](https://www.tradingview.com/chart/?symbol=WPP) | WPP PLC | WPP |
+| 23 | 80 | $57.27 | [Chart](https://www.tradingview.com/chart/?symbol=DAY) | Dayforce, Inc. | DAY |
+| 30 | 79 | $197.79 | [Chart](https://www.tradingview.com/chart/?symbol=RGA) | Reinsurance Group of America, Incorporated | RGA |
+| 33 | 75 | $22.84 | [Chart](https://www.tradingview.com/chart/?symbol=IBTG) | iShares iBonds Dec 2026 Term Treasury ETF | IBTG |
+| 30 | 73 | $21.70 | [Chart](https://www.tradingview.com/chart/?symbol=TUA) | Simplify Short Term Treasury Futures Strategy ETF | TUA |
 | 39 | 62 | $18.95 | [Chart](https://www.tradingview.com/chart/?symbol=DJT) | Trump Media & Technology Group Corp. Common Stock | DJT |
 
 ## **Methodology**
